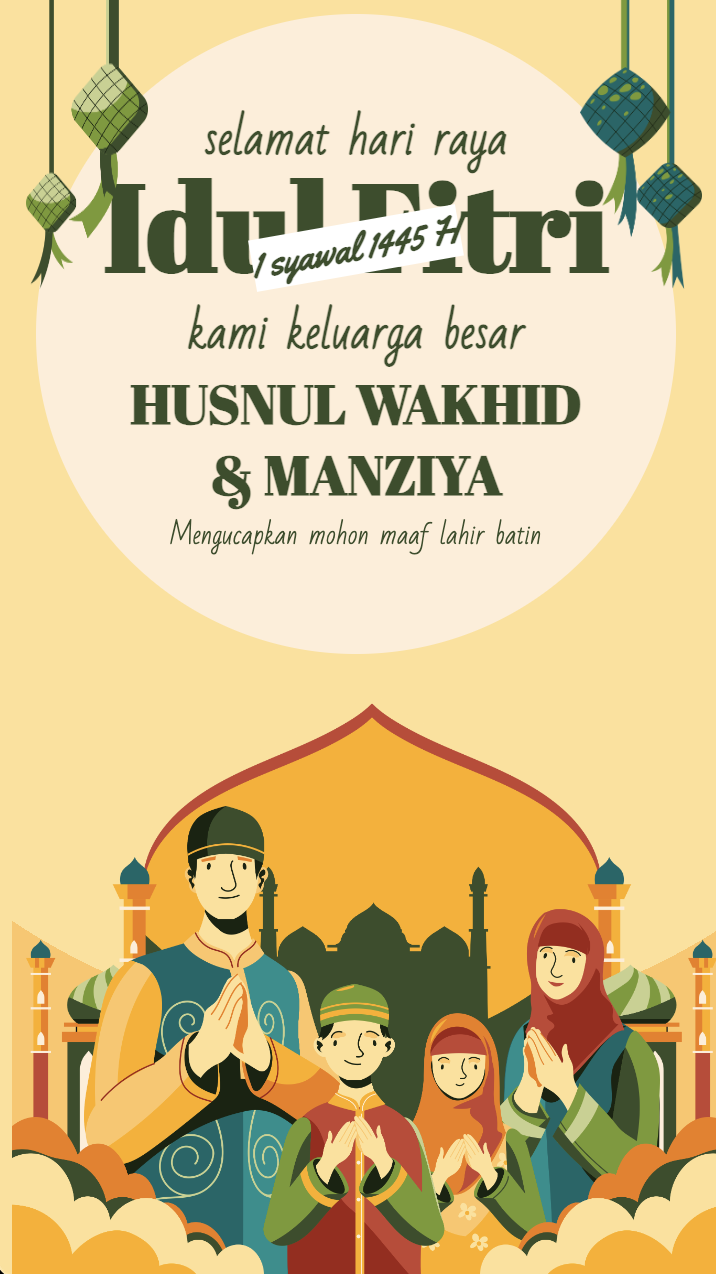
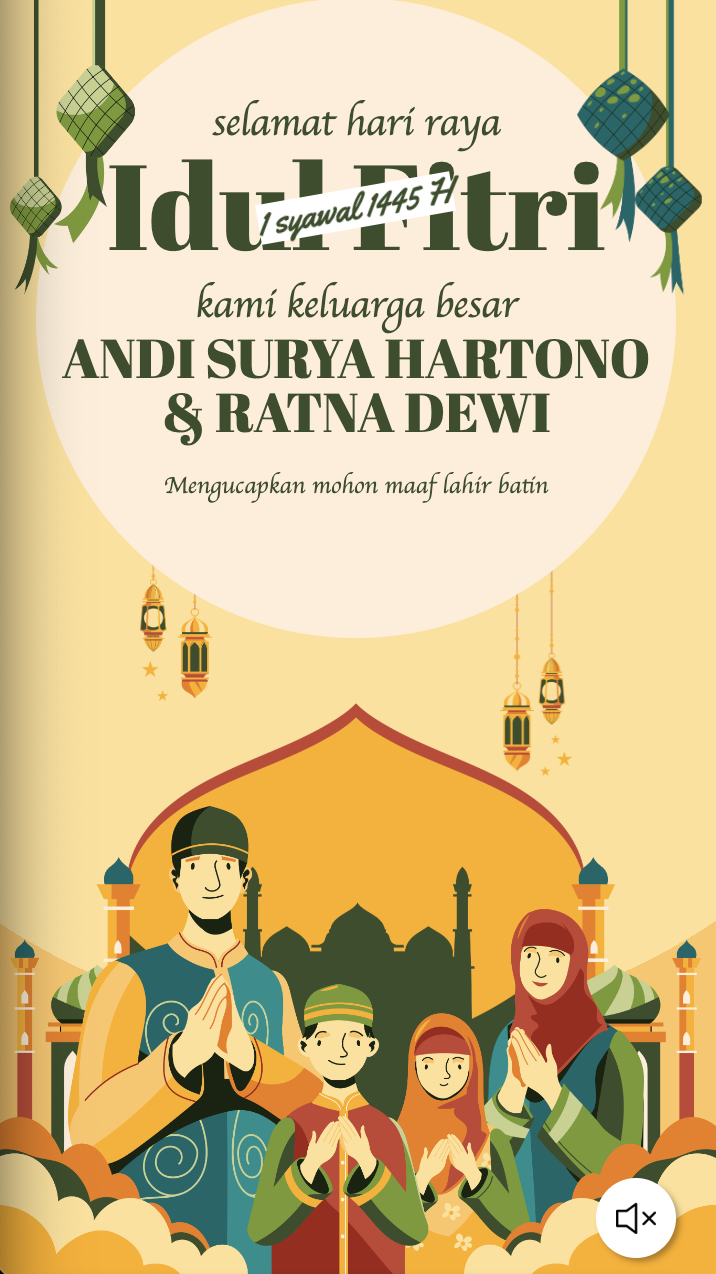
update

diff --git a/templats/toon-templat/index.html b/templats/toon-templat/index.html
@@ -75,7 +75,7 @@
                 </div>
                 <h3><span>kami keluarga besar</span>
                     <br>
-                    HUSNUL WAKHID<br>& MANZIYA
+                    ANDI SURYA HARTONO<br>& RATNA DEWI
                 </h3>
                 <p>Mengucapkan mohon maaf lahir batin</p>
             </div>

diff --git a/templats/toon-templat/styles-toon.css b/templats/toon-templat/styles-toon.css
@@ -85,7 +85,7 @@ body {
 }
 .context .wrap-cont .texts h3 {
     font-family: var(--utama);
-    font-size: 3rem;
+    font-size: 2.5rem;
     text-align: center;
     margin: 0;
     line-height: 100%;
